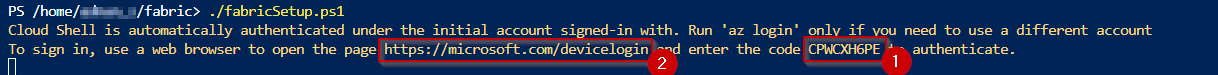
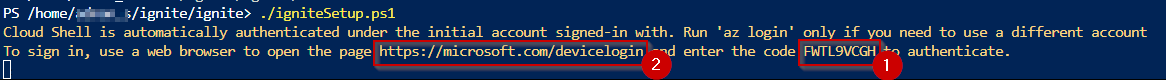
updated readme-shell and media files

diff --git a/ignite/Readme-Shell.md b/ignite/Readme-Shell.md
@@ -42,7 +42,7 @@ THIS DEMO/LAB PROVIDES CERTAIN SOFTWARE TECHNOLOGY/PRODUCT FEATURES AND FUNCTION
 
 ## Before you begin
 
-1. **Open** Azure Portal by clicking [HERE](https://portal.azure.com/)
+1. **Open** Azure Portal by clicking [HERE](https://portal.azure.com/).
 
 2. In the Resource group section, **select** the Terminal icon to open Azure Cloud Shell.
 
@@ -106,7 +106,7 @@ cd ./ignite/ignite/
 
 11. **Click** the link [https://microsoft.com/devicelogin](https://microsoft.com/devicelogin) and a new browser window will launch.
 
-	![Authentication link and Device Code.](media/cloud-shell-6.png)
+	![Authentication link and Device Code.](media/)
      
 12. **Paste** the authentication code.
 
@@ -266,15 +266,32 @@ Here are the Microsoft Fabric workloads showcased in this solution along with Az
 
 **1. Synapse Data Engineering**
 
+Combines the best of the data lake and warehouse, removing the friction of ingesting, transforming, and sharing organizational data, all in an open format. Users can choose from various ways of bringing data into the Lakehouse including dataflow & pipelines, and they can even use shortcuts to create virtual folders and tables without any data movement between the storage accounts. The goal is to simplify the process of working with organizational data. Rather than spending time on integrating various products, managing infrastructure, and stitching together a spectrum of data sources, Microsoft aims to empower data engineers to focus on their core responsibilities and tasks.
+
+
 **2. Data Factory**
+
+Data Factory empowers users with a modern data integration experience to ingest, prepare and transform data with intelligent transformations, and leverage a rich set of activities. Data Factory primarily implements dataflows and pipelines.	Dataflows provide a low-code interface for ingesting data from hundreds of data sources, with 300+ data transformations. Data pipelines enable powerful workflow capabilities to build complex ETL and data factory workflows that can perform many different tasks at scale, refresh dataflow, move PB-size data, and define sophisticated control flow pipelines.	With its fast copy (data movement) capabilities in both dataflows and data pipelines, it enables users to move data between stores blazing fast.
+
 
 **3. Synapse Data Science**
 
+Microsoft Fabric offers Data Science experiences, empowering users to complete a wide range of activities across the entire data science process. All the way from data exploration, preparation and cleansing to experimentation, modeling, model scoring and serving of predictive insights to BI reports. Synapse Data Science in Microsoft Fabric allows data science practitioners to work seamlessly on top of the same secured and governed data that has been prepared by data engineering teams. This eliminates the need to copy data. The open Delta Lake support allows data science users to version datasets to create reproducible machine learning code.
+
+
 **4. Synapse Data Warehouse**
+
+Microsoft Fabric introduces a lake centric data warehouse built on an enterprise grade distributed processing engine that enables industry leading performance at scale while eliminating the need for configuration and management. The Warehouse is built for any skill level - from the citizen developer through to the professional developer, DBA or data engineer. The rich set of experiences built into Microsoft Fabric workspace enables customers to reduce their time to insights by having an easily consumable, always connected dataset that is integrated with Power BI in Direct Lake mode.
+
 
 **5. Power BI**
 
+Power BI is standardizing open data formats by adopting Delta Lake and Parquet as its native storage format to avoid vendor lock-in and reduce data duplication and management. Direct Lake mode unlocks incredible performance directly against OneLake, with no data movement. Power BI datasets in Direct Lake mode enjoy query performance on par with import mode, with the real-time nature of DirectQuery. And the data never leaves the lake.
+
+
 **6. Synapse Real-time Analytics**
+
+Real-time Analytics is fully integrated with the entire suite of Microsoft Fabric products, for both data loading, data transformation, and advanced visualization scenarios. Quick access to data insights is achieved through automatic data streaming, automatic indexing and data partitioning of any data source or format, and by using the on-demand query generation and visualizations. The main items available in Real-time Analytics include: Eventstream for capturing, transforming, and routing real-time events to various destinations with a no-code experience.	A KQL database for data storage and management. Data loaded into a KQL database can be accessed in OneLake and is exposed to other Microsoft Fabric experiences. A KQL queryset to run queries, view, and customize query results on data. The KQL queryset allows you to save queries for future use, export, and share queries with others. It includes the option to generate a Power BI report.
 
 ---
 
@@ -574,65 +591,85 @@ Litware has curated marketing data and sales data processed by Azure Databricks 
 
 As Data Engineer, another option for ingesting the data. This time Eva prefers using the code-first experience. Go back to your existing workspace contosoSales.
 
-1. While you are in the **Power BI workspace**, click on **Power BI** in the bottom left corner and select **Data Science**.
+*Before executing the steps we download the required fabric notebooks*
+
+1. **Goto** the notebooks location in the Github repository by clicking [HERE](https://github.com/microsoft/Azure-Analytics-and-AI-Engagement/tree/ignite-lab/ignite/artifacts/fabricnotebooks).
+
+2. **Click** on the '01 Marketing Data to Lakehouse (Bronze) - Code-First Experience.ipynb' notebook.
+
+	![Datawarehouse.](media/task-1.3-notebook-new1.png)
+
+3. **Click** on the 'Download' button.
+
+	![Datawarehouse.](media/task-1.3-notebook-new2.png)
+
+4. **Click** on the 'fabricnotebooks' path.
+
+	![Datawarehouse.](media/task-1.3-notebook-new3.png)
+
+5. **Click** on the '02 Churn Prediction Using MLFlow From Silver To Gold Layer.ipynb' notebook.
+
+	![Datawarehouse.](media/task-1.3-notebook-new4.png)
+
+6. Navigate back to the **Power BI workspace**, click on **Power BI** in the bottom left corner and select **Data Science**.
 
 	![Datawarehouse.](media/task-1.3-notebook-5.png)
 
-2. Click on **Import notebook**.
+7. Click on **Import notebook**.
 
 	![Datawarehouse.](media/task-1.3-notebook-6.png)
 	
-3. In the **Import Status**, click on the **Upload** button.
+8. In the **Import Status**, click on the **Upload** button.
 
 	![Datawarehouse.](media/task-1.3-notebook-7.png)
 	
-4. Browse to the notebooks from your local system through the path **C:\Ignite Assets\IgniteDreamLab2023\artifacts\fabricnotebooks**, select all of the notebooks and click on the **Open** button.
+9. **Browse** to the location from your local system where you downloaded the notebooks, select both the notebooks and click on the **Open** button.
 
 	![Datawarehouse.](media/task-1.3-notebook-8.png)
 
-5. Click on the **notification** icon to check the upload status. 
+10. Click on the **notification** icon to check the upload status. 
 
 	![Datawarehouse.](media/task-1.3-notebook-17.png)
 
-6. Once the upload is complete, the notification will display **Imported succussfully**. Click on **Go to Workspace**.
+11. Once the upload is complete, the notification will display **Imported succussfully**. Click on **Go to Workspace**.
 
 	![Datawarehouse.](media/task-1.3-notebook-9.png)
 
-7. In the workspace, click on the **01 Marketing Data to Lakehouse (Bronze) - Code-First Experience** notebook.
+12. In the workspace, click on the **01 Marketing Data to Lakehouse (Bronze) - Code-First Experience** notebook.
 
 	![Datawarehouse.](media/task-1.3-notebook-10.png)
 
-8. In the left pane, click on the **Missing Lakehouse** button and select **Remove all Lakehouses**.
+13. In the left pane, click on the **Missing Lakehouse** button and select **Remove all Lakehouses**.
 
 ![Datawarehouse.](media/task-1.3-notebook-11.png)
 
 >**Note:** If you do not see Missing lakehouse, you may see **lakehouse{Name}**, click on it to get the **Remove all Lakehouses** option.
 
-9. Click on **Continue** in the pop-up window.
+14. Click on **Continue** in the pop-up window.
 
 	![Datawarehouse.](media/task-1.3-notebook-12.png)
 
-10. In the left navigation pane, click on the **Add** button.
+15. In the left navigation pane, click on the **Add** button.
 
 	![Datawarehouse.](media/task-1.3-notebook-13.png)
 
-11. In the pop-up, select the **Existing Lakehouse** radio button and then click on the **Add** button.
+16. In the pop-up, select the **Existing Lakehouse** radio button and then click on the **Add** button.
 
 	![Datawarehouse.](media/task-1.3-notebook-14.png)
 
-12. Click on the **lakehouseBronze** checkbox and then click on **Add**.
+17. Click on the **lakehouseBronze** checkbox and then click on **Add**.
 
 	![Datawarehouse.](media/task-1.3-notebook-15.png)
 
 *This notebook is used to get the data to the Bronze Lakehouse.*
 
-13. Go to the cell with name **Shortcut Folder Path**, replace **#WORKSPACE_NAME#** with the Fabric Workspace name you are working on and also verify the lakehouse name which should be the Bronze Lakehouse you created.
+18. Go to the cell with name **Shortcut Folder Path**, replace **#WORKSPACE_NAME#** with the Fabric Workspace name you are working on and also verify the lakehouse name which should be the Bronze Lakehouse you created.
 
 >**Note:** Make sure you delete the "#" too in above step
 
    ![Close the browser.](media/task-1.3-notebook-18.png)
 
-14. Click on **Run all**.
+19. Click on **Run all**.
 
 	![Close the browser.](media/task-1.3-notebook-16.png)
 
@@ -901,21 +938,35 @@ Next, as Wendy, the business analyst let us see how we can leverage the Power BI
 
 4. You can **drag and drop visual** from visualization pane.
 
-5. In Power BI service, click on **Workspaces** and click on **contosoSales**. 
+5. **Goto** the reports location in the Github repository by clicking [HERE](https://github.com/microsoft/Azure-Analytics-and-AI-Engagement/tree/ignite-lab/ignite/artifacts/reports).
 
-![Close the browser.](media/task-3.1.10.png)
+6. **Click** on the 'Campaign Analytics Report with Lakehouse.pbix' report.
 
-6. Click on **Upload** and select **Browse**.
+	![Close the browser.](media/task-3.1.10.new3.png)
+
+7. **Click** on the 'Download' button.
+
+	![Close the browser.](media/task-3.1.10.new4.png)
+
+8. Similarly download the other two reports as well.
+
+	![Close the browser.](media/task-3.1.10.new5.png)
+
+9. **Go back** to Power BI service, click on **Workspaces** and click on **contosoSales**. 
+
+	![Close the browser.](media/task-3.1.10.png)
+
+10. Click on **Upload** and select **Browse**.
 
 	![Task 6](media/task-6.1.10.png)
 
-7. Browse to the reports from your local system through the path **C:\Ignite Assets\IgniteDreamLab2023\artifacts\reports**, select the **Campaign Analytics Report with Lakehouse.pbix** report and click on the **Open** button.
+11. **Browse** to the location from your local system where you downloaded the reports, select the **Campaign Analytics Report with Lakehouse.pbix** report and click on the **Open** button.
 
 	![Task 6](media/task-6.1.11.png)
 
 >**Note:** Wait for the report to upload.
 
-8. **Open** the report by clicking on it.
+12. **Open** the report by clicking on it.
 
 	![Task 6](media/task-6.1.12.png)
 
@@ -923,7 +974,7 @@ Next, as Wendy, the business analyst let us see how we can leverage the Power BI
 
    ![Task 6](media/task-6.1.20.png)
 
-9. Close the pop-up.
+13. Close the pop-up.
 
 	![Task 6](media/task-6.1.20new.png)
 
@@ -1080,7 +1131,6 @@ Now let's see how Contoso was able to easily create Data Warehouses for its vari
 
 	![Datawarehouse.](media/task-4.1.warehouse-19.png)
 
-**Optional Task 5.3**
 
 ### Task 5.3: Create virtual Data Warehouses
 
@@ -1282,7 +1332,7 @@ The third query is executed to keep an eye on the temperature and detect any ano
 
 	![Task 6](media/task-6.1.10.png)
 
-7. Browse to the reports from your local system through the path **C:\Ignite Assets\IgniteDreamLab2023\artifacts\reports**, select the **Real-Time and Historical in-store analytics with KQLDB.pbix** report and click on the **Open** button.
+7. **Browse** to the location from your local system where you downloaded the reports, select the **Real-Time and Historical in-store analytics with KQLDB.pbix** report and click on the **Open** button.
 
 	![Task 6](media/task-5.4.7.png)
 
